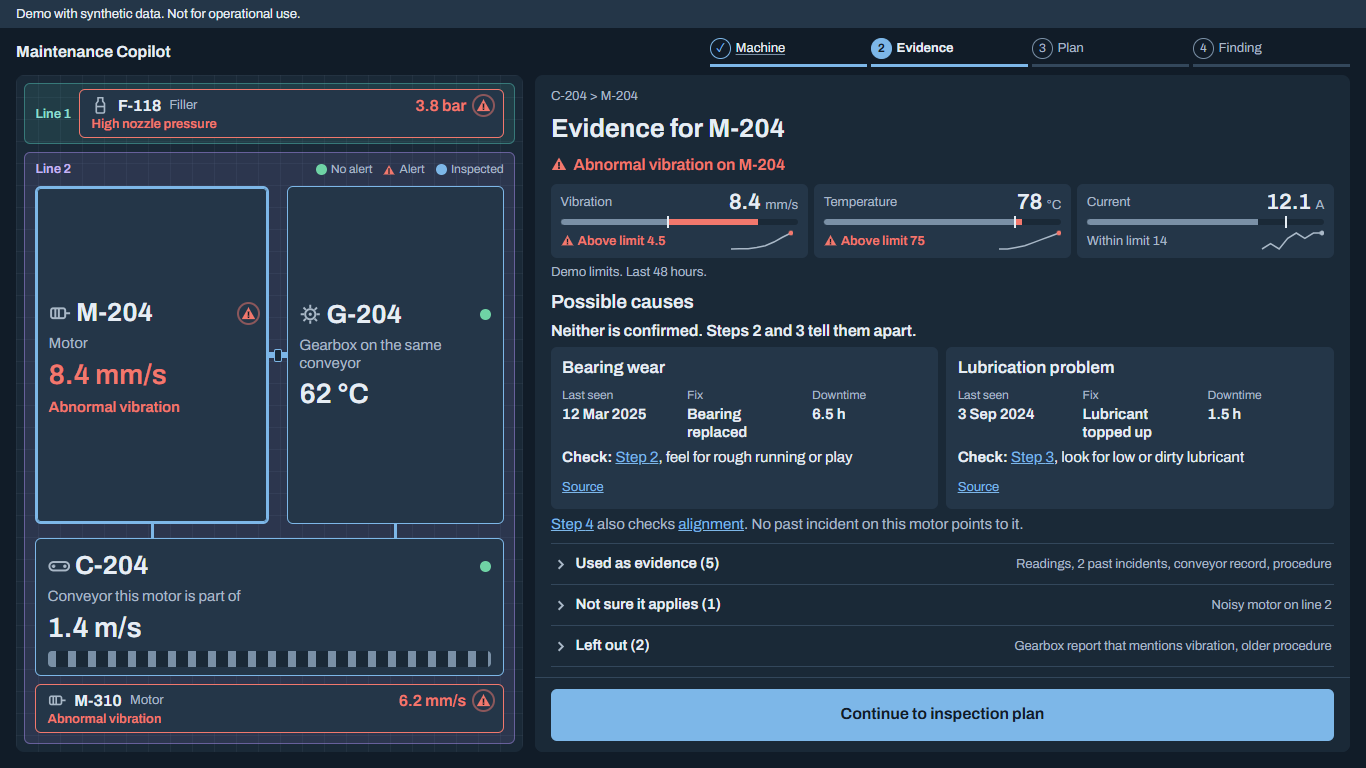
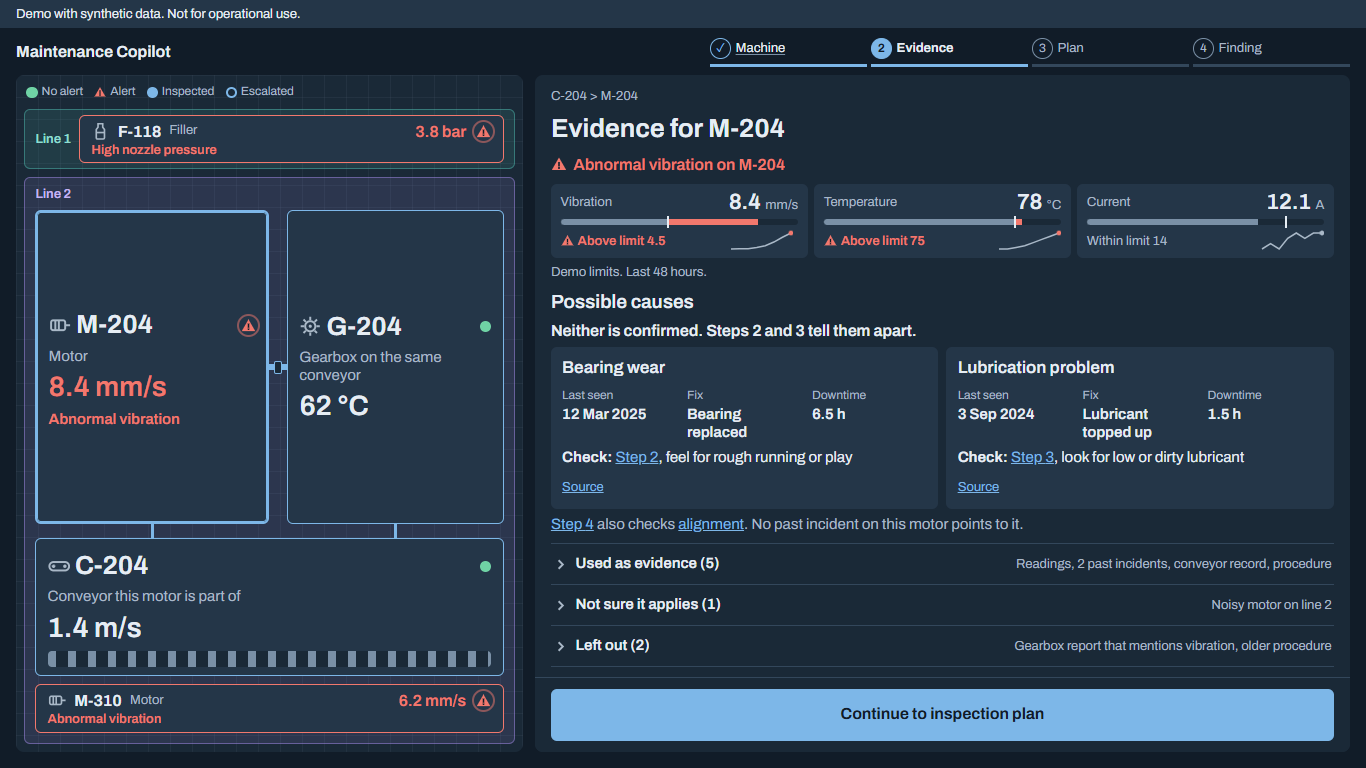
Refresh flow screenshots and log the Gate 2 fixes

diff --git a/PROCESS_LOG.md b/PROCESS_LOG.md
@@ -154,3 +154,23 @@ Record each meaningful AI mistake or direction change. Only record things that a
 - **Caught by:** Claude Code.
 - **What changed:** The machine title and status share a line, the sibling line is shorter, and the zone name no longer wraps.
 - **Evidence link or screenshot:** _to fill in_
+
+## Legend placement, F-118 flow and empty machine screen
+
+- **Date:** 2026-11-09
+- **Tool:** Claude Code
+- **Prompt or context:** User review of Gate 2.
+- **What went wrong:** The legend sat inside one line, F-118's shorter flow had no visible reason, and the M-310 machine screen looked empty.
+- **Caught by:** The user.
+- **What changed:** The legend sits above Line 1 and lists every status. Machines with no procedure keep the four-step structure, with Plan shown as blocked. Every machine screen shows a snapshot built from data.
+- **Evidence link or screenshot:** _to fill in_
+
+## Snapshot and blocked step did not fit at phone width
+
+- **Date:** 2026-11-09
+- **Tool:** Claude Code
+- **Prompt or context:** Browser review of the Gate 2 fixes at 380px.
+- **What went wrong:** The new machine snapshot fell below the fixed button, by up to 110px. "No procedure" also ran into "Finding" in the progress bar, which the measured checks missed and a screenshot showed.
+- **Caught by:** Claude Code.
+- **What changed:** On phone, a selected machine shows only its own group on the floor. The blocked step has more room.
+- **Evidence link or screenshot:** _to fill in_
